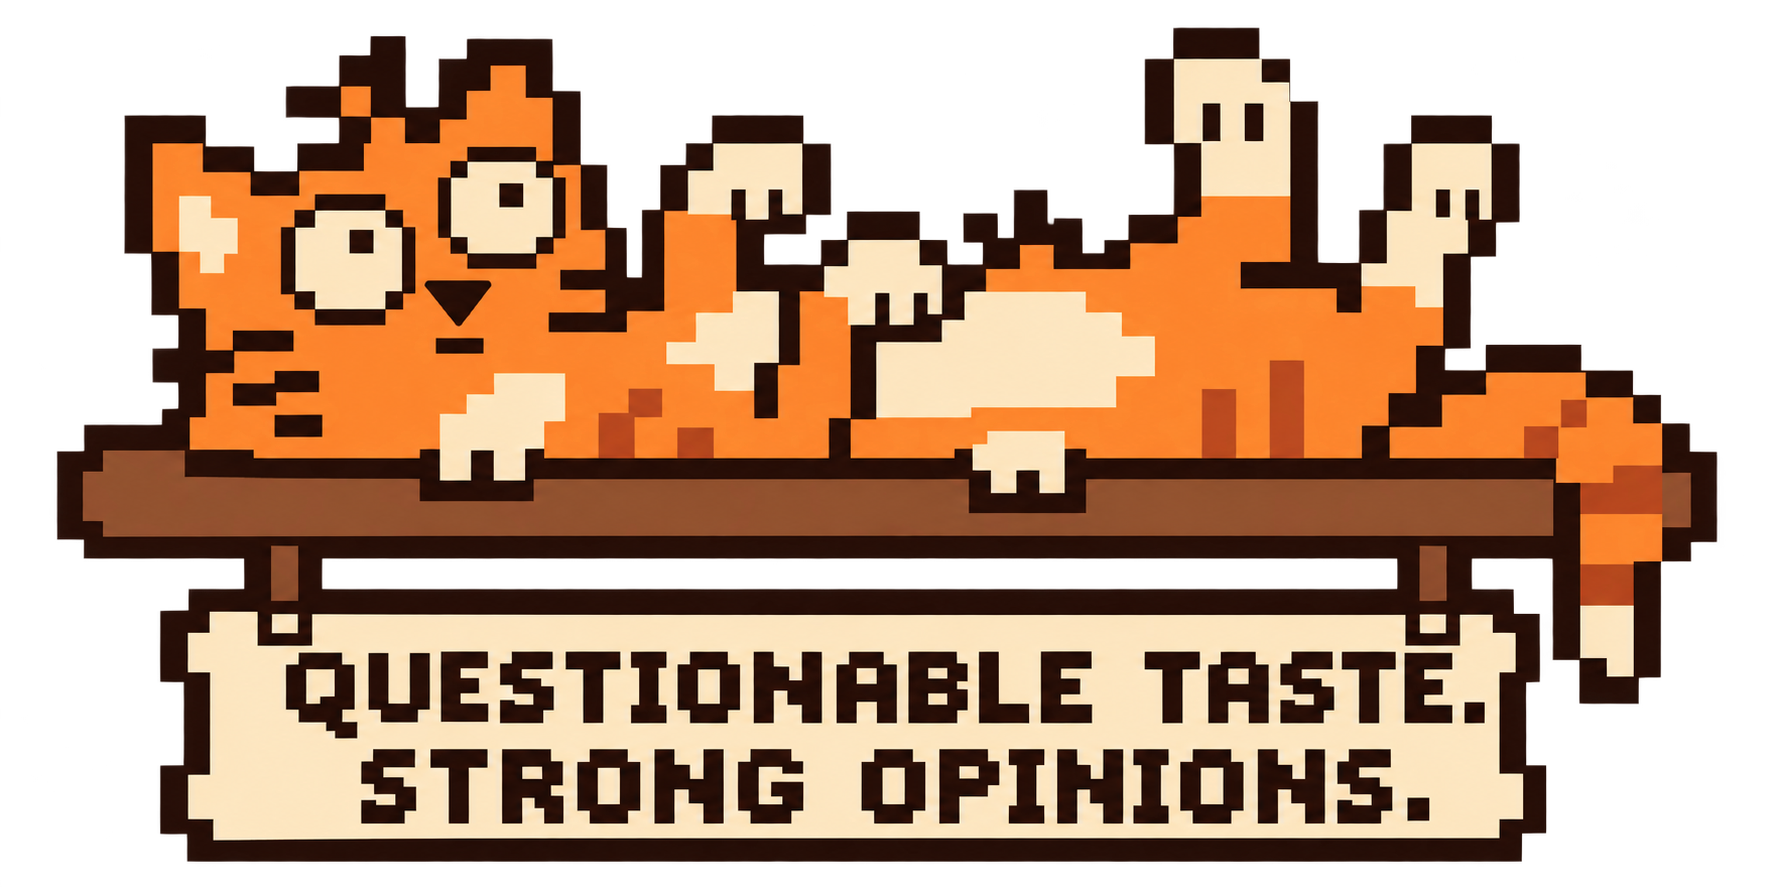
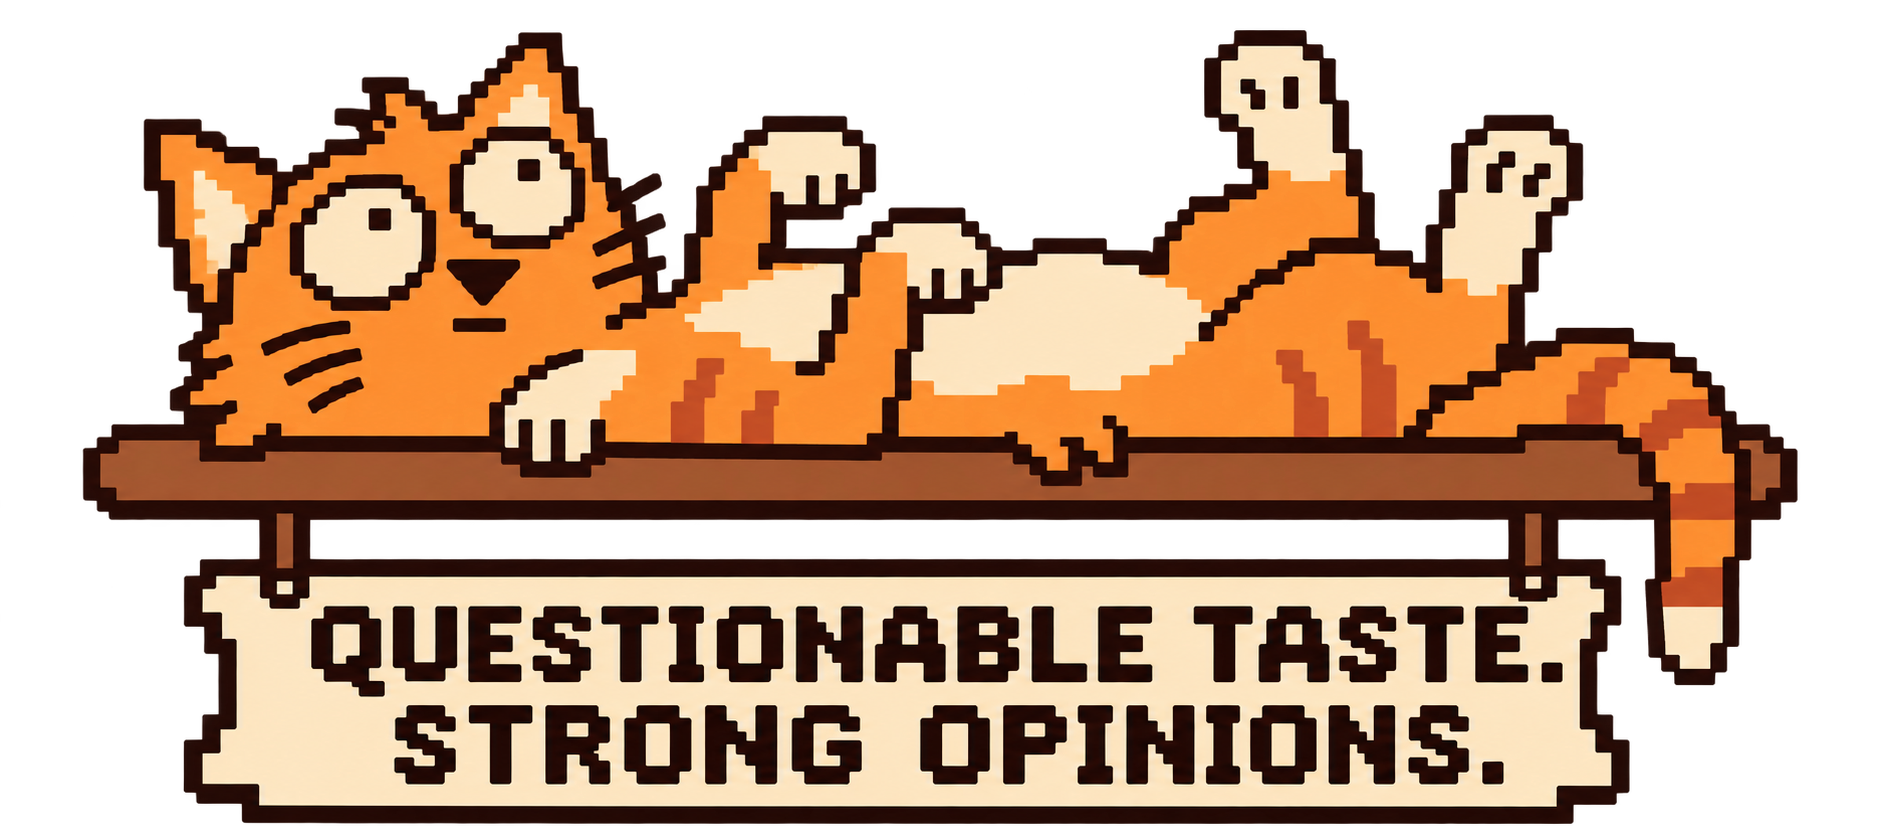
Add five-bean ratings and six sparse coffee accents

Changed region(s): [[0.031, 0.0311, 0.9921, 0.994]]

diff --git a/src/App.jsx b/src/App.jsx
@@ -1,3 +1,4 @@
+import BeanRating from './BeanRating.jsx';
 import Character from './Character.jsx';
 import React,{useState,useEffect} from 'react';
 const people=['Tiago','Sam','Archie'];
@@ -17,7 +18,7 @@ export default function App({Cup,PourCard}){
  return <main className="single full-app" data-roast={roast}><article className="study study-3"><header><span className="wordmark">sippin’<br/><i>diesel.</i><span className="mark-dot">✦</span></span><div className="club-perch"><img className="cat-banner" src="/assets/coffee/cat-banner.png" alt="A scruffy cat lying belly-up on a ledge above a banner: Questionable taste. Strong opinions."/></div></header>
  <div className="roast-picker"><button className="roast-trigger" aria-expanded={roastOpen} aria-controls="roast-panel" onClick={()=>setRoastOpen(!roastOpen)}><svg viewBox="0 0 24 24" width="21" height="21" fill="none" aria-hidden="true"><ellipse cx="12" cy="12" rx="7" ry="10" transform="rotate(35 12 12)" stroke="currentColor" strokeWidth="1.4"/><path d="M17 4c-8 3-1 12-10 16" stroke="currentColor" strokeWidth="1.4"/></svg><span>Roast level</span><small>{['Light','Medium','Dark','Midnight'][roast]}</small><span aria-hidden="true">{roastOpen?'−':'+'}</span></button>{roastOpen&&<div id="roast-panel" className="roast-panel" onKeyDown={e=>{if(e.key==='Escape'){setRoastOpen(false);e.currentTarget.parentElement.querySelector('button').focus();}}}><PourCard enabled><div className="roast-control"><span className="eyebrow">PALETTE TASTING / 0{roast+1}</span><label htmlFor="roast-level">Roast level <strong>{['Light · original','Medium','Dark','Midnight'][roast]}</strong></label><div className="roast-track" style={{'--roast-fill':`${roast/3*100}%`}}><input id="roast-level" type="range" min="0" max="3" step="1" value={roast} aria-valuetext={['Light, original palette','Medium roast','Dark roast','Midnight roast'][roast]} onChange={e=>setRoast(Number(e.target.value))}/></div><div className="roast-stops">{['Light','Medium','Dark','Midnight'].map((level,i)=><button key={level} aria-pressed={roast===i} onClick={()=>setRoast(i)}><i style={{background:['#dbb78b','#a76f43','#65402d','#30231c'][i]}}/>{level}</button>)}</div><p>A little darker. Same questionable taste.</p><button className="text-button" onClick={()=>setRoastOpen(false)}>That’s my roast ✓</button></div></PourCard></div>}</div>{user&&<nav><a href="#journal">The journal</a><a className="member" href="/">{user} · Switch person</a><button onClick={()=>setLeaveWarning(true)}>Leave the club</button></nav>}
  <section className={'hero '+(user?'member-hero':'')}><div className="eyebrow">TIAGO, SAM & ARCHIE</div><h1>“Meet you by<br/><em>the piss door”</em></h1><p>Three mates pretending they can taste the chocolate notes.</p><Cup rust/><span className="hero-caption">A PRIVATE COFFEE CLUB. VERY LOOSE STANDARDS.</span>{user&&<button className="primary" onClick={()=>setEditor({})}>＋ Log a coffee</button>}</section>
- {!ready?<p role="status">Putting the kettle on…</p>:!routeName?<section className="choose-person"><div className="section-title"><h2>Pick your usual suspect.</h2></div><p>Same password. Different questionable opinions.</p><div className="people-grid">{people.map(name=><PourCard key={name} enabled organic><a className="person-card" href={'/users/'+name.toLowerCase()}><Character name={name}/><h2>{name}</h2><span>{name==='Tiago'?'Strong coffee. Stronger opinions.':name==='Sam'?'A turtleneck does not count as expertise.':'All limbs. No tasting qualifications.'}</span><strong>That’s me ↗</strong></a></PourCard>)}</div></section>:!user?<form className="login-paper personal-login" onSubmit={login}><Character name={routeName}/><div className="eyebrow">MEMBERS ONLY, UNFORTUNATELY</div><h2>{routeName}, your usual?</h2><input type="hidden" name="name" value={routeName}/><label>Club password<input name="password" type="password" required autoComplete="current-password"/></label><button className="primary" disabled={busy}>{busy?'Opening the door…':'Let me in'}</button><a className="text-button" href="/">Not {routeName}? Pick your person.</a><p className="fine-print">One shared password. Three questionable palates.</p></form>:<section id="journal" className="app-journal"><div className="section-title"><h2>The latest pours</h2><span>{journal.reviews.length} ENTRIES / {journal.cafes.length} CAFÉS</span></div><div className="filters"><label>Find a café<input type="search" placeholder="Somewhere worth going back to…" value={filter} onChange={e=>setFilter(e.target.value)}/></label><label>Whose opinion?<select value={person} onChange={e=>setPerson(e.target.value)}>{['All',...people].map(p=><option key={p}>{p}</option>)}</select></label></div><div className="cafe-grid">{filtered.map((c,cafeIndex)=>{const reviews=journal.reviews.filter(r=>r.cafe_id===c.id&&(person==='All'||r.author===person));return <PourCard key={c.id} enabled>{reviews.length>0&&cafeIndex%3===0&&<img className="coffee-sticker cafe-sticker" src="/assets/coffee/beans.png" alt="" aria-hidden="true"/>}<div className="cafe-heading"><div><span className="eyebrow">FIELD NOTES / {c.date_added_text||'THE NEXT FIND'}</span><h2>{c.name}</h2>{c.address&&<p>{c.address}</p>}</div><a className="maps-link" href={c.maps_url} target="_blank" rel="noreferrer">Maps ↗</a></div>{reviews.length?reviews.map(r=><article className="coffee-entry" key={r.id}>{Boolean(r.has_photo)&&<a href={'/api/photos/'+r.id} target="_blank" rel="noreferrer"><img className="review-photo" loading="lazy" src={'/api/photos/'+r.id+'?v='+encodeURIComponent(r.updated_at)} alt={`${r.coffee||'Coffee'} at ${c.name}, photographed by ${r.author}`}/></a>}<div className="entry-top"><h3>{r.coffee||'From the original coffee list'}</h3><div className="score">{r.score}<small>/10</small></div></div><span className="grade-name">{grades[r.score-1]}</span><p className="tasting-note">{r.notes||'Lost for words. Apparently.'}</p><div className="entry-meta"><span>{r.author} · {r.visited_on||`${r.date_text} · year not recorded`}{r.milk?' · '+r.milk:''}</span>{r.author===user&&<button onClick={()=>setEditor(r)}>Edit</button>}</div></article>):<p className="empty-note">{person==='All'?'On the list. Still awaiting a verdict.':`${person} hasn’t weighed in here yet.`}</p>}<button className="text-button" onClick={()=>setEditor({cafe_id:c.id})}>＋ Another cup here</button></PourCard>})}</div>{!filtered.length&&<p>No cafés match that search.</p>}</section>}
+ {!ready?<p role="status">Putting the kettle on…</p>:!routeName?<section className="choose-person"><div className="section-title"><h2>Pick your usual suspect.</h2></div><p>Same password. Different questionable opinions.</p><div className="people-grid">{people.map(name=><PourCard key={name} enabled organic><a className="person-card" href={'/users/'+name.toLowerCase()}><Character name={name}/><h2>{name}</h2><span>{name==='Tiago'?'Strong coffee. Stronger opinions.':name==='Sam'?'A turtleneck does not count as expertise.':'All limbs. No tasting qualifications.'}</span><strong>That’s me ↗</strong></a></PourCard>)}</div></section>:!user?<form className="login-paper personal-login" onSubmit={login}><Character name={routeName}/><div className="eyebrow">MEMBERS ONLY, UNFORTUNATELY</div><h2>{routeName}, your usual?</h2><input type="hidden" name="name" value={routeName}/><label>Club password<input name="password" type="password" required autoComplete="current-password"/></label><button className="primary" disabled={busy}>{busy?'Opening the door…':'Let me in'}</button><a className="text-button" href="/">Not {routeName}? Pick your person.</a><p className="fine-print">One shared password. Three questionable palates.</p></form>:<section id="journal" className="app-journal"><div className="section-title"><h2>The latest pours</h2><span>{journal.reviews.length} ENTRIES / {journal.cafes.length} CAFÉS</span></div><div className="filters"><label>Find a café<input type="search" placeholder="Somewhere worth going back to…" value={filter} onChange={e=>setFilter(e.target.value)}/></label><label>Whose opinion?<select value={person} onChange={e=>setPerson(e.target.value)}>{['All',...people].map(p=><option key={p}>{p}</option>)}</select></label></div><div className="cafe-grid">{filtered.map((c,cafeIndex)=>{const reviews=journal.reviews.filter(r=>r.cafe_id===c.id&&(person==='All'||r.author===person));return <PourCard key={c.id} enabled>{reviews.length>0&&cafeIndex%3===0&&<img className="coffee-sticker cafe-sticker" src={'/assets/coffee/'+['beans','espresso','moka','filter','bag','croissant'][Array.from(c.id).reduce((sum,char)=>sum+char.charCodeAt(0),0)%6]+'.png'} alt="" aria-hidden="true"/>}<div className="cafe-heading"><div><span className="eyebrow">FIELD NOTES / {c.date_added_text||'THE NEXT FIND'}</span><h2>{c.name}</h2>{c.address&&<p>{c.address}</p>}</div><a className="maps-link" href={c.maps_url} target="_blank" rel="noreferrer">Maps ↗</a></div>{reviews.length?reviews.map(r=><article className="coffee-entry" key={r.id}>{Boolean(r.has_photo)&&<a href={'/api/photos/'+r.id} target="_blank" rel="noreferrer"><img className="review-photo" loading="lazy" src={'/api/photos/'+r.id+'?v='+encodeURIComponent(r.updated_at)} alt={`${r.coffee||'Coffee'} at ${c.name}, photographed by ${r.author}`}/></a>}<div className="entry-top"><h3>{r.coffee||'From the original coffee list'}</h3><BeanRating score={r.score}/></div><span className="grade-name">{grades[r.score-1]}</span><p className="tasting-note">{r.notes||'Lost for words. Apparently.'}</p><div className="entry-meta"><span>{r.author} · {r.visited_on||`${r.date_text} · year not recorded`}{r.milk?' · '+r.milk:''}</span>{r.author===user&&<button onClick={()=>setEditor(r)}>Edit</button>}</div></article>):<p className="empty-note">{person==='All'?'On the list. Still awaiting a verdict.':`${person} hasn’t weighed in here yet.`}</p>}<button className="text-button" onClick={()=>setEditor({cafe_id:c.id})}>＋ Another cup here</button></PourCard>})}</div>{!filtered.length&&<p>No cafés match that search.</p>}</section>}
  {leaveWarning&&<div className="club-warning" role="alert"><strong>You wish.</strong><p>You’re in this coffee club for life. Sorry about that.</p><button className="text-button" onClick={()=>setLeaveWarning(false)}>Fine. Put the kettle on.</button></div>}{error&&<p role="alert" className="error">{error}</p>}{install&&<button className="install-button" onClick={async()=>{await install.prompt();setInstall(null);}}>Install the coffee club ↗</button>}<footer><span>From Piss to Coffee Excelence.</span><span>SD / THREE MATES, NO QUALIFICATIONS</span></footer></article>{editor&&<Editor review={editor} cafes={journal.cafes} close={()=>setEditor(null)} saved={async()=>{await refresh();setEditor(null);}}/>}</main>;
 }
 function Editor({review,cafes,close,saved}){
@@ -26,5 +27,5 @@ function Editor({review,cafes,close,saved}){
  async function readPhoto(e){const file=e.target.files[0];if(!file)return;if(file.size>6000000){setError('Please choose a photo under 6 MB.');return;}const reader=new FileReader();reader.onload=()=>{setPhoto(reader.result);setError('');};reader.onerror=()=>setError('Could not read the photo.');reader.readAsDataURL(file);}
  async function submit(e){e.preventDefault();setBusy(true);setError('');try{const data=Object.fromEntries(new FormData(e.currentTarget));delete data.upload;Object.assign(data,{score:Number(score),cafeId:cafe,photo});await api('reviews'+(review.id?'/'+review.id:''),review.id?'PUT':'POST',data);await saved();}catch(e){setError(e.message);}finally{setBusy(false);}}
  async function remove(){setBusy(true);try{await api('reviews/'+review.id,'DELETE');await saved();}catch(e){setError(e.message);setBusy(false);}}
- return <dialog open ref={el=>{if(el&&!el.dataset.modal){el.close();el.showModal();el.dataset.modal='true';}}} onCancel={e=>{e.preventDefault();if(!busy)close();}} className="entry-dialog"><form onSubmit={submit}><div className="dialog-heading"><h2>{review.id?'Revise your verdict':'Another questionable opinion'}</h2><button type="button" aria-label="Close" disabled={busy} onClick={close}>×</button></div><label>Café<select value={cafe} onChange={e=>setCafe(e.target.value)}>{cafes.map(c=><option key={c.id} value={c.id}>{c.name}</option>)}<option value="">＋ Somewhere new</option></select></label>{!cafe&&<><label>Café name<input name="cafeName" required maxLength={150}/></label><label>Address / city<input name="address" maxLength={250}/></label><label>Google Maps link (optional)<input name="mapsUrl" type="url" placeholder="https://maps.app.goo.gl/…"/></label></>}<div className="form-row"><label>Your coffee<input autoFocus name="coffee" required maxLength={100} defaultValue={review.coffee||''} placeholder="Flat white, espresso…"/></label><label>Milk (optional)<input name="milk" maxLength={50} defaultValue={review.milk||''} placeholder="Oat, whole, none…"/></label></div><label>Visit date<input name="visitedOn" type="date" required defaultValue={review.visited_on||(review.id?'':new Date(Date.now()-new Date().getTimezoneOffset()*60000).toISOString().slice(0,10))}/></label>{review.id&&!review.visited_on&&<p className="fine-print">The imported entry has no year or drink recorded. Add those details to save an edit.</p>}<label>Your verdict <strong>{score}/10 · {grades[score-1]}</strong><input type="range" min="1" max="10" value={score} onChange={e=>setScore(Number(e.target.value))}/></label><div className="range-ends"><span>Piss</span><span>Coffee Excelence</span></div><label>Tasting notes<textarea name="notes" rows="4" maxLength={4000} defaultValue={review.notes||''} placeholder="Chocolate notes or just wishful thinking?"/></label><label>Photo · JPEG, PNG or WebP, up to 6 MB<input name="upload" type="file" accept="image/jpeg,image/png,image/webp" onChange={readPhoto}/></label>{(photo||photo===undefined&&review.has_photo)&&<><img className="photo-preview" src={photo||'/api/photos/'+review.id} alt="Coffee photo preview"/><button type="button" className="text-button" onClick={()=>setPhoto(null)}>Remove photo</button></>}{error&&<p role="alert" className="error">{error}</p>}<button className="primary" disabled={busy}>{busy?'Saving…':'File the opinion'}</button>{review.id&&<div className="delete-controls">{confirmDelete?<><span>Delete this entry permanently?</span><button type="button" disabled={busy} onClick={remove}>Yes, delete</button><button type="button" onClick={()=>setConfirmDelete(false)}>Keep it</button></>:<button type="button" onClick={()=>setConfirmDelete(true)}>Delete entry</button>}</div>}</form></dialog>;
+ return <dialog open ref={el=>{if(el&&!el.dataset.modal){el.close();el.showModal();el.dataset.modal='true';}}} onCancel={e=>{e.preventDefault();if(!busy)close();}} className="entry-dialog"><form onSubmit={submit}><div className="dialog-heading"><h2>{review.id?'Revise your verdict':'Another questionable opinion'}</h2><button type="button" aria-label="Close" disabled={busy} onClick={close}>×</button></div><label>Café<select value={cafe} onChange={e=>setCafe(e.target.value)}>{cafes.map(c=><option key={c.id} value={c.id}>{c.name}</option>)}<option value="">＋ Somewhere new</option></select></label>{!cafe&&<><label>Café name<input name="cafeName" required maxLength={150}/></label><label>Address / city<input name="address" maxLength={250}/></label><label>Google Maps link (optional)<input name="mapsUrl" type="url" placeholder="https://maps.app.goo.gl/…"/></label></>}<div className="form-row"><label>Your coffee<input autoFocus name="coffee" required maxLength={100} defaultValue={review.coffee||''} placeholder="Flat white, espresso…"/></label><label>Milk (optional)<input name="milk" maxLength={50} defaultValue={review.milk||''} placeholder="Oat, whole, none…"/></label></div><label>Visit date<input name="visitedOn" type="date" required defaultValue={review.visited_on||(review.id?'':new Date(Date.now()-new Date().getTimezoneOffset()*60000).toISOString().slice(0,10))}/></label>{review.id&&!review.visited_on&&<p className="fine-print">The imported entry has no year or drink recorded. Add those details to save an edit.</p>}<fieldset className="bean-field"><legend>Your verdict · {grades[score-1]}</legend><BeanRating score={score} onChange={setScore}/><div className="range-ends"><span>Piss</span><span>Coffee Excelence</span></div><p className="fine-print">Each half-bean is one point. Use the arrow keys or tap a half.</p></fieldset><label>Tasting notes<textarea name="notes" rows="4" maxLength={4000} defaultValue={review.notes||''} placeholder="Chocolate notes or just wishful thinking?"/></label><label>Photo · JPEG, PNG or WebP, up to 6 MB<input name="upload" type="file" accept="image/jpeg,image/png,image/webp" onChange={readPhoto}/></label>{(photo||photo===undefined&&review.has_photo)&&<><img className="photo-preview" src={photo||'/api/photos/'+review.id} alt="Coffee photo preview"/><button type="button" className="text-button" onClick={()=>setPhoto(null)}>Remove photo</button></>}{error&&<p role="alert" className="error">{error}</p>}<button className="primary" disabled={busy}>{busy?'Saving…':'File the opinion'}</button>{review.id&&<div className="delete-controls">{confirmDelete?<><span>Delete this entry permanently?</span><button type="button" disabled={busy} onClick={remove}>Yes, delete</button><button type="button" onClick={()=>setConfirmDelete(false)}>Keep it</button></>:<button type="button" onClick={()=>setConfirmDelete(true)}>Delete entry</button>}</div>}</form></dialog>;
 }

diff --git a/src/style.css b/src/style.css
@@ -55,3 +55,4 @@ html{scroll-behavior:smooth}button,input,select,textarea{font:inherit}button,a,i
 @media(max-width:600px){.club-perch{width:165px;margin-left:12px}.full-app .wordmark{font-size:33px}}
 @media(prefers-reduced-motion:reduce){.coffee-sticker{transform:rotate(-10deg);transition:none}.people-grid .organic-card{transform:translateY(var(--rest-offset,0px)) rotate(var(--rest-tilt,0deg))!important}}
 .full-app .card-foil{background:radial-gradient(ellipse 55% 45% at var(--glint-x,50%) var(--glint-y,50%),#e9cb8c30,transparent 75%);mask-image:none;opacity:.22;transition:opacity .2s;mix-blend-mode:soft-light}.full-app .pour-perspective:hover .card-foil{opacity:.4}
+.bean-rating{display:flex;align-items:center;gap:9px;color:var(--accent);flex-shrink:0}.five-beans{display:flex;gap:3px;align-items:center}.rating-bean{display:block;position:relative;width:17px;height:24px}.rating-bean svg{display:block;width:100%;height:100%;overflow:visible}.bean-number{font-size:13px;white-space:nowrap;color:var(--ink)}.bean-number small{font-size:10px;color:var(--muted)}.entry-top{flex-wrap:wrap}.entry-top h3{flex:1;min-width:130px}.bean-field{padding:16px 0;border:0;border-top:1px solid var(--line);border-bottom:1px solid var(--line);margin:22px 0}.bean-field legend{font-size:13px;padding:0 8px 0 0}.editable-beans{justify-content:center;margin:14px 0 20px;gap:16px}.editable-beans .rating-bean{width:46px;height:54px}.editable-beans .five-beans{gap:5px}.editable-beans .bean-number{font-size:22px}.bean-hit{position:absolute!important;top:0;width:50%;height:100%;margin:0!important;padding:0!important;cursor:pointer}.half-1{left:0}.half-2{right:0}.bean-hit input{position:absolute;opacity:0;width:100%;height:100%;margin:0;cursor:pointer}.bean-hit>span{position:absolute;inset:0;pointer-events:none;border-radius:4px}.bean-hit:has(input:focus-visible)>span{outline:2px solid var(--accent);outline-offset:3px}.bean-field .fine-print{margin-bottom:0}.full-app .bean-hit{display:block}@media(max-width:420px){.editable-beans .rating-bean{width:39px;height:48px}.editable-beans{gap:10px}}

diff --git a/src/BeanRating.jsx b/src/BeanRating.jsx
@@ -1,0 +1,3 @@
+import React,{useId} from 'react';
+function Bean({fill}){const id=useId();return <svg viewBox="0 0 32 40" aria-hidden="true"><defs><linearGradient id={id}><stop offset={fill+'%'} stopColor="currentColor"/><stop offset={fill+'%'} stopColor="transparent"/></linearGradient></defs><path d="M25 4C14-3 2 9 3 23s12 19 21 9S35 10 25 4Z" fill={`url(#${id})`} stroke="currentColor" strokeWidth="1.8"/><path d="M23 5C12 13 23 23 10 34" stroke="var(--card)" strokeWidth="2.2" fill="none"/></svg>}
+export default function BeanRating({score,onChange}){return <div className={'bean-rating '+(onChange?'editable-beans':'')}><div className="five-beans" {...(!onChange?{role:'img','aria-label':`${score} out of 10, ${score/2} of 5 coffee beans`}:{})}>{Array.from({length:5},(_,i)=><span className="rating-bean" key={i}><Bean fill={Math.max(0,Math.min(100,(score-i*2)*50))}/>{onChange&&[1,2].map(half=>{const value=i*2+half;return <label key={half} className={'bean-hit half-'+half}><input type="radio" name="beanScore" value={value} checked={score===value} onChange={()=>onChange(value)} aria-label={`${value} out of 10`}/><span/></label>})}</span>)}</div><span className="bean-number">{score}<small>/10</small></span></div>}

diff --git a/design-brief.md b/design-brief.md
@@ -45,3 +45,5 @@ Coffee decoration: built-in image generation produced transparent 16-bit espress
 Static cat revision: generated a single low-detail 16-bit emblem with scruffy orange stray lying belly-up, existential stare, wooden ledge, and cream hanging banner reading “QUESTIONABLE TASTE.” / “STRONG OPINIONS.” Flat warm palette and transparent background; no cup, pour, glow or motion. File: public/assets/coffee/cat-banner.png. Entire emblem has the former sign’s four-degree tilt. Removed character-card coffee stickers; occasional small beans remain only at reviewed café-card corners.
 
 Follow-up: simplify cat emblem further to an 8-bit look with a coarse pixel grid, limited flat colours, clearly visible dark triangular nose, belly-up existential expression and unchanged banner wording. Remove all cat animation and pour. Remove all coffee accents from character cards; show one small corner accent only on occasional reviewed café cards.
+
+Latest decisions: return cat to simplified 16-bit style, with visible nose and readable small banner. Five coffee beans represent unchanged scores out of ten, each half-bean one point; original 8/10 and 7/10 remain unchanged. Six corner accents available: beans, espresso, moka pot, pour-over filter, coffee bag, croissant. New four assets generated with coarse-pixel low-detail warm palette and transparent backgrounds for small-size readability. Accent selection is stable per café and remains sparse. Maps preview research pending source choice; retain accurate Google Maps deep links in the meantime.
